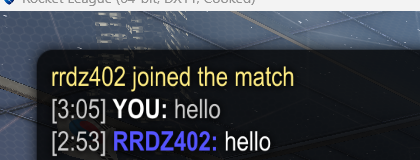
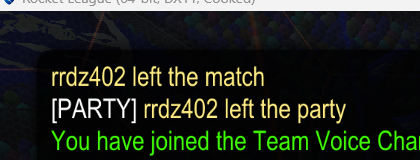
Stricter chat filter — block URLs, system messages, bad message starts

diff --git a/bot.py b/bot.py
@@ -67,21 +67,49 @@ class RLWeebBot:
 
     # ── Parsing & filters ────────────────────────────────────────────────────
 
+    # Names that are never real players
+    _BLOCKED_NAMES = {'https', 'http', 'www', 'you', 'party', 'system', 'server'}
+    # System message keywords — lines containing these are not player chat
+    _SYSTEM_PHRASES = ('left the match', 'joined the match', 'left the party',
+                       'joined the party', 'joined the team', 'have joined', 'voice chat')
+
     def _parse_chat(self, line: str) -> tuple[str, str] | None:
+        # Reject system notification lines
+        line_lower = line.lower()
+        if any(p in line_lower for p in self._SYSTEM_PHRASES):
+            return None
+
         clean = re.sub(r'^\[\d+[:.]\d+\]\s*', '', line).strip()
+        # Strip [PARTY] or [TEAM] prefixes
+        clean = re.sub(r'^\[.*?\]\s*', '', clean).strip()
+
         if ':' not in clean:
             return None
         name, _, message = clean.partition(':')
         name = name.strip()
         message = message.strip()
+
         if not name or not message or len(name) > 32 or len(message) > 120:
             return None
+
+        # Reject known non-player names
+        if name.lower() in self._BLOCKED_NAMES:
+            return None
+
+        # Message must start with a letter or digit
+        if not message[0].isalnum():
+            return None
+
+        # Name must be mostly alphanumeric
         alnum = sum(c.isalnum() or c in '_- ' for c in name)
         if alnum / max(len(name), 1) < 0.6:
             return None
-        word_chars = sum(c.isalpha() or c in " '?!.,'" for c in message)
-        if word_chars / max(len(message), 1) < 0.4:
+
+        # Message must be at least 50% real word characters
+        word_chars = sum(c.isalpha() or c in " '?!.," for c in message)
+        if word_chars / max(len(message), 1) < 0.5:
             return None
+
         return name, message
 
     def _is_own(self, name: str, message: str) -> bool:
